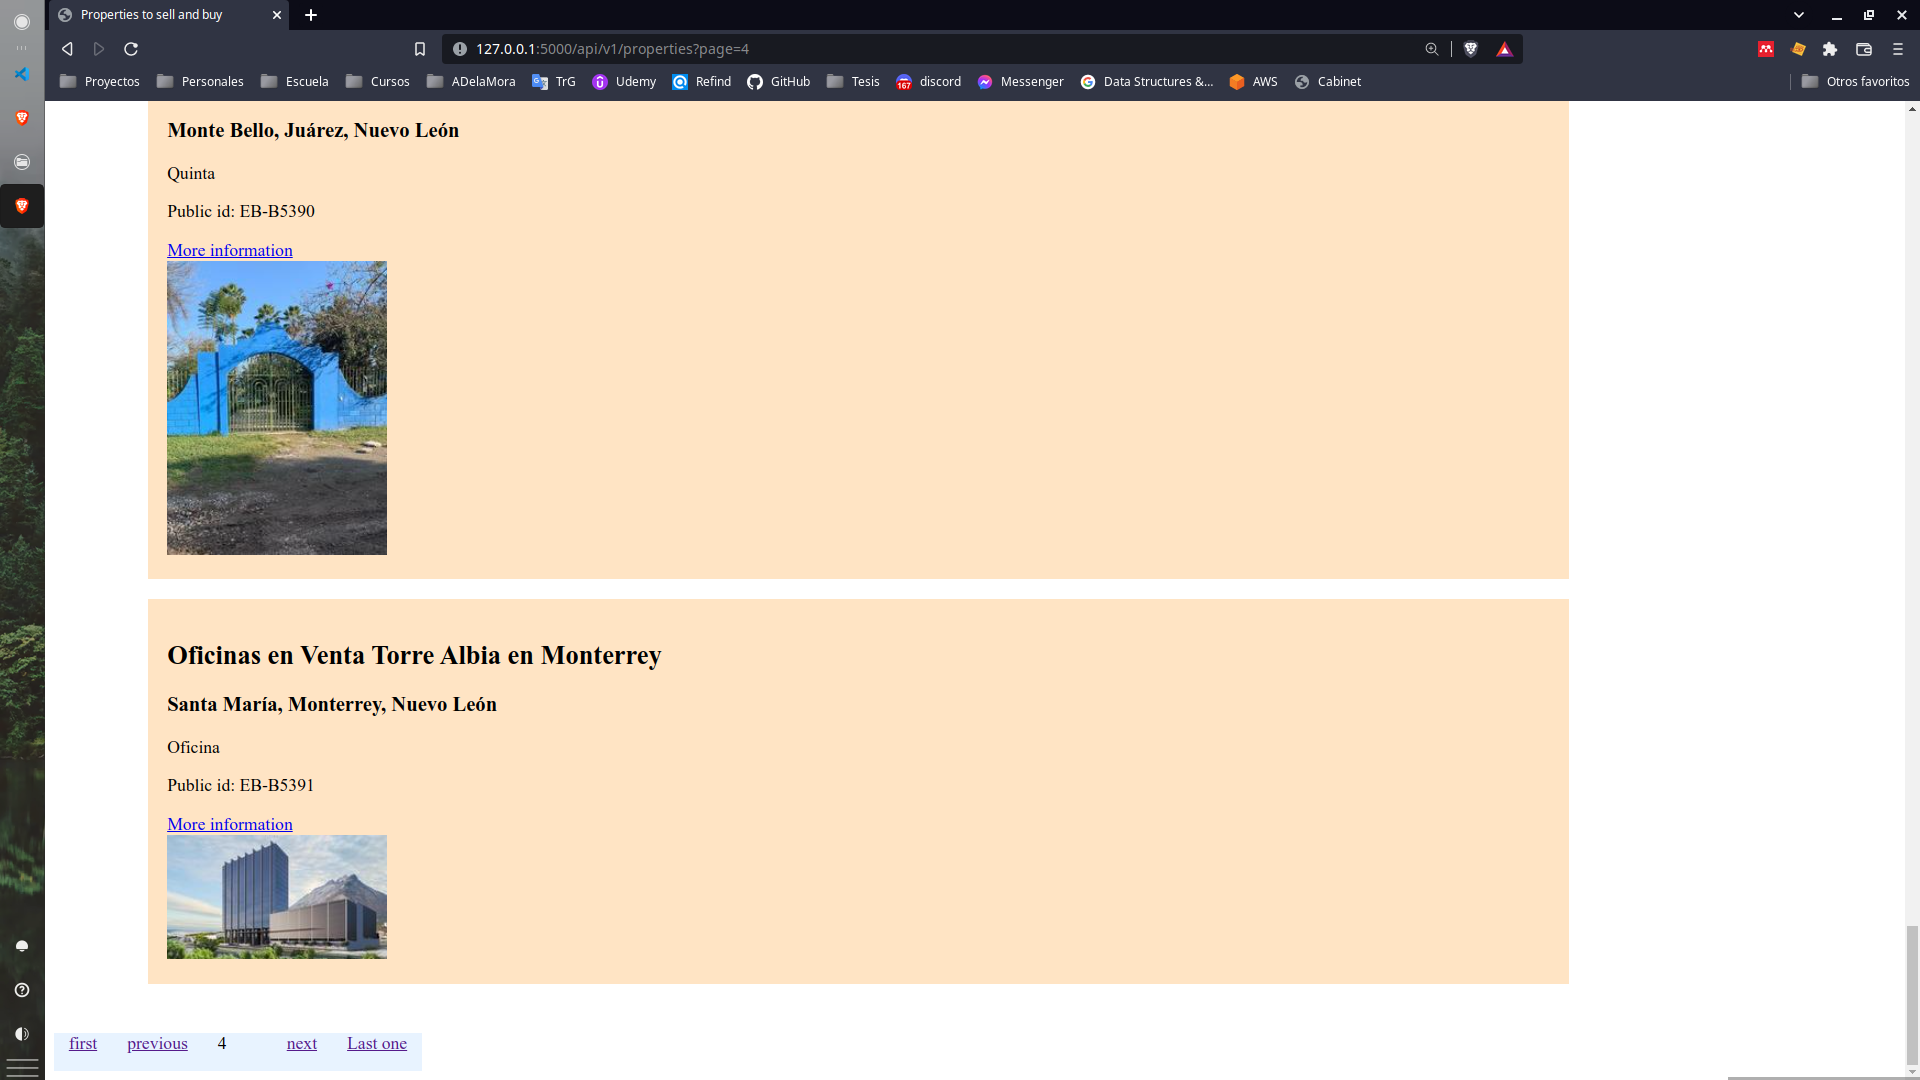
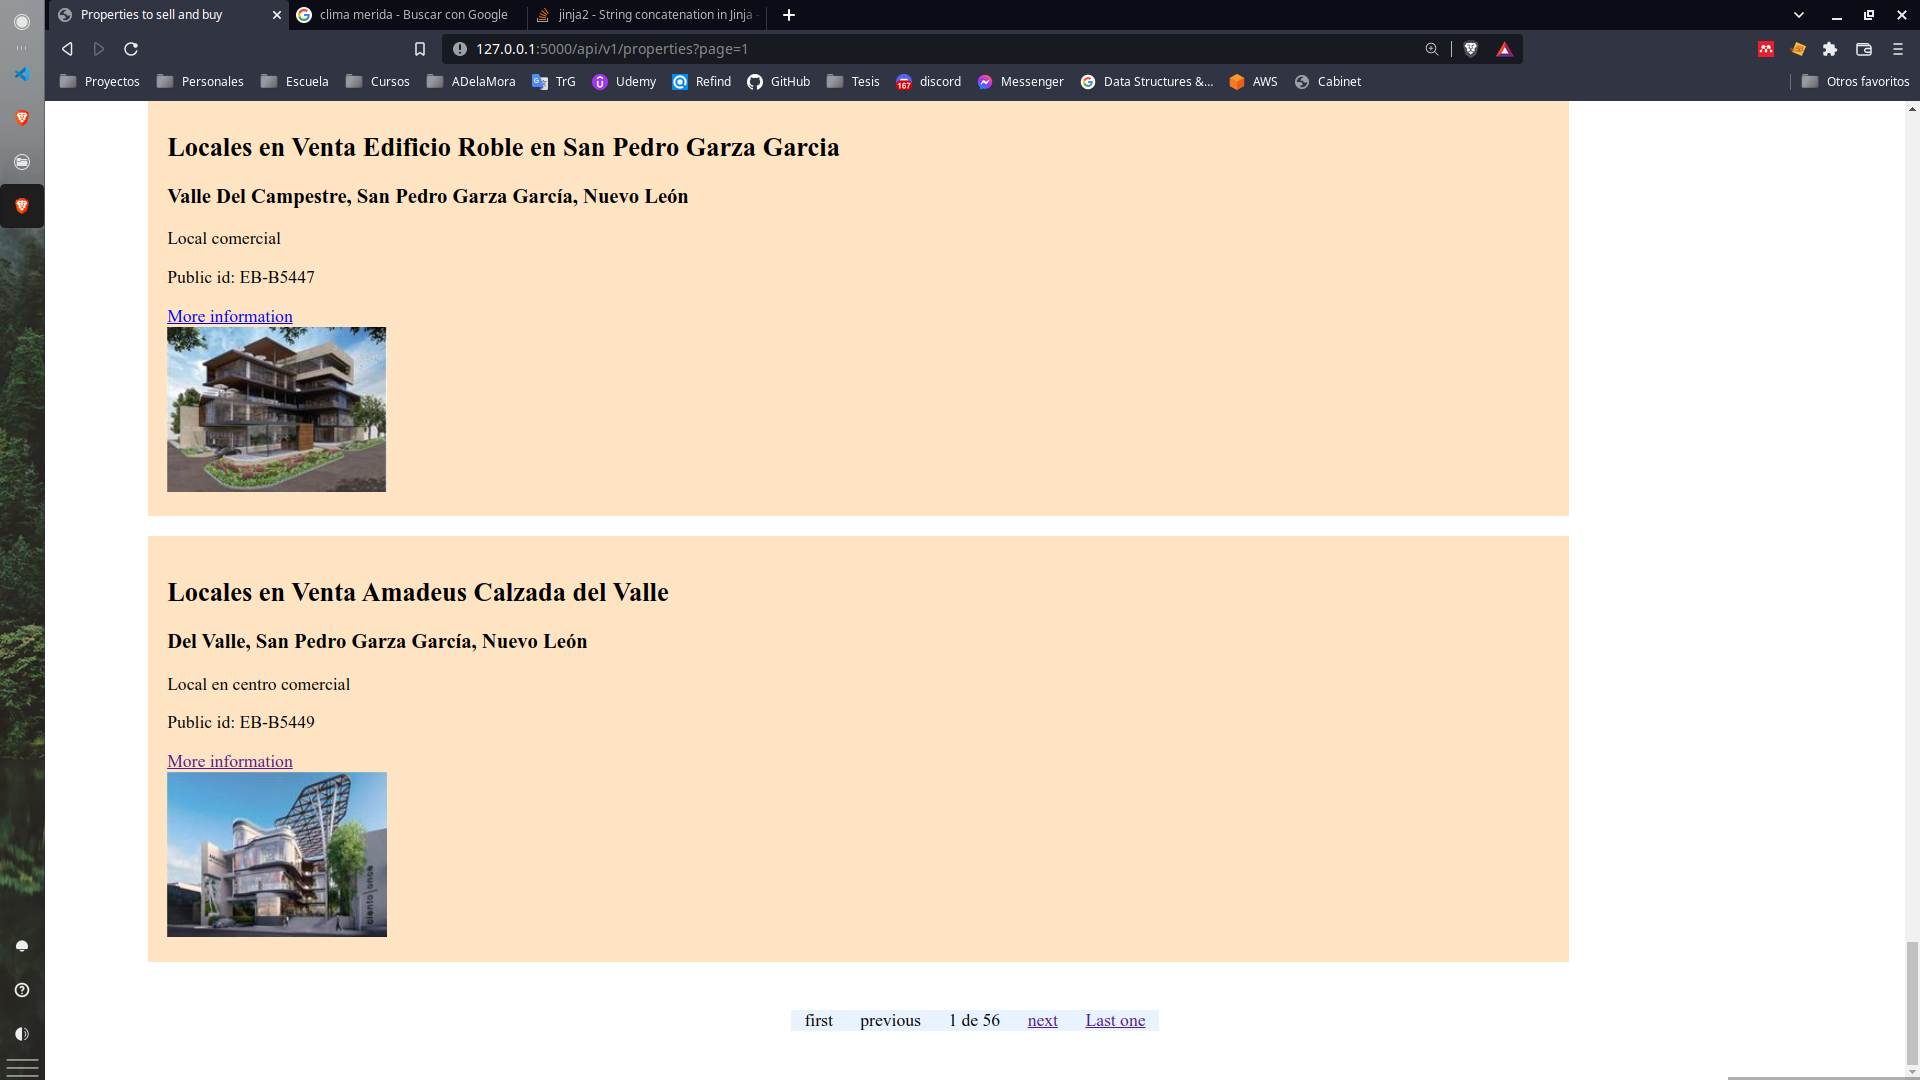
Minor changes

diff --git a/app/home/template/home.html b/app/home/template/home.html
@@ -11,10 +11,10 @@
     <body>
         {% if notfound %}
         <h1>Not Found</h1>
-        
+
         {% else %}
         <h1>Properties at Comala, Jalisco</h1>
-        
+
         {% for property in properties %}
         <div id="properties_card">
             <div>
@@ -22,7 +22,11 @@
                 <h3>{{property.location}}</h3>
                 <p>{{property.property_type}}</p>
                 <p>Public id: {{property.public_id}}</p>
-                <a href="{{url_for('property_profile.property_profile_page', property_id=property.public_id)}}"> More information </a>
+                <a
+                    href="{{url_for('property_profile.property_profile_page', property_id=property.public_id)}}"
+                >
+                    More information
+                </a>
             </div>
             <img
                 src="{{property.title_image_thumb}}"
@@ -34,38 +38,49 @@
 
         <div id="pagination">
             <div>
-                <a
-                    href="{{url_for('home.all_properties', page=1)}}"
+                {% if pagination.page > 1 %}
+                <a href="{{url_for('home.all_properties', page=1)}}"
                     >first</a
                 >
+                {% else %}
+                <a>first</a>
+                {% endif %}
             </div>
             <div>
+                {% if pagination.page > 1 %}
                 <a
                     href="{{url_for('home.all_properties', page=pagination.page - 1)}}"
                     >previous</a
                 >
+                {% else %}
+                <a>previous</a>
+                {% endif %}
             </div>
-            <div><a>{{pagination.page}}</p></div>
+            <div>
+                <a
+                    >{{ pagination.page ~ ' de ' ~
+                    pagination.total_pages }}</a
+                >
+            </div>
             <div>
                 {% if pagination.page < pagination.total_pages %}
-                    <a
-                        href="{{url_for('home.all_properties', page=pagination.page + 1)}}"
-                        >next</a
-                    >
+                <a
+                    href="{{url_for('home.all_properties', page=pagination.page + 1)}}"
+                    >next</a
+                >
                 {% else %}
-                    <a >next</a>
+                <a>next</a>
                 {% endif %}
             </div>
             <div>
                 {% if pagination.page < pagination.total_pages %}
-                    <a
-                        href="{{url_for('home.all_properties', page=pagination.total_pages)}}"
-                        >Last one</a
-                    >
+                <a
+                    href="{{url_for('home.all_properties', page=pagination.total_pages)}}"
+                    >Last one</a
+                >
                 {% else %}
-                    <a >Last one</a>
+                <a>Last one</a>
                 {% endif %}
-
             </div>
         </div>
         {% endif %}

diff --git a/app/home/static/home.css b/app/home/static/home.css
@@ -1,5 +1,5 @@
 #pagination {
-    margin-top: 5vh;
+    margin: 5vh auto;
     width: 20%;
     background-color: rgb(232, 243, 255);
     display: flex;

diff --git a/app/home/home.py b/app/home/home.py
@@ -36,6 +36,8 @@ def all_properties():
         pagination = ''
         properties = ''
 
+    print(pagination)
+
     return render_template('home.html', notfound=not_found,
                            pagination=pagination,
                            properties=properties)
